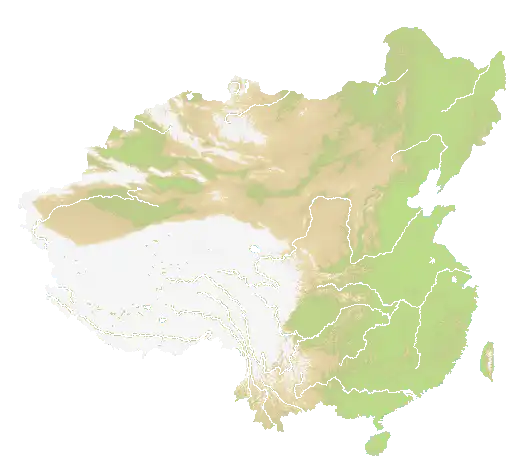
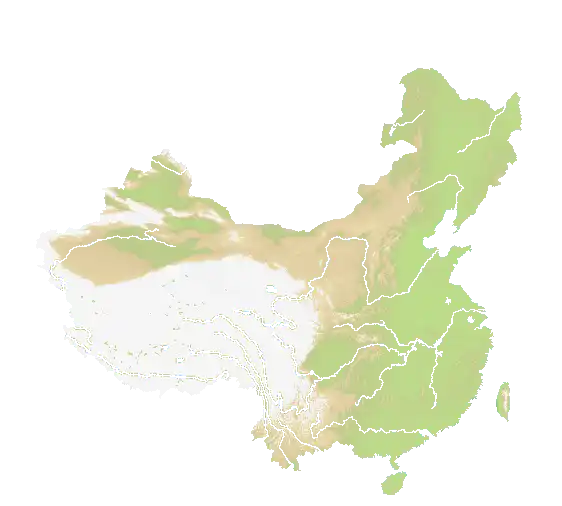
Repair lobby decoder for OpenFront v0.34.0

diff --git a/lobby-wire.js b/lobby-wire.js
@@ -3,8 +3,8 @@
  * Since OpenFrontIO commit d70e4865ca (2026-08-21), lobby frames use the
  * project's positional Zbin format instead of JSON. This is a deliberately
  * small, dependency-free decoder for PublicLobbyMessageSchema only.
- * Schema synchronized with OpenFrontIO release v0.33.13, the version deployed
- * in production on 2026-09-04. Do not follow `main`: Zbin is positional and a
+ * Schema synchronized with OpenFrontIO release v0.34.0 (2026-09-14).
+ * Do not follow `main`: Zbin is positional and a
  * field that has not shipped yet shifts every value that follows it.
  */
 (function (root) {
@@ -191,13 +191,14 @@
     "Baikal Nuke Wars", "Baja California", "Balkans", "Balkhash", "Baltics",
     "Bering Sea", "Bering Strait", "Between Two Seas", "Black Sea",
     "Bosphorus Straits", "Branching Paths", "Britannia", "Britannia Classic",
-    "Caribbean", "Caspian Sea", "Caucasus", "China", "Chopping Block",
+    "Cape Cod", "Caribbean", "Caspian Sea", "Caucasus", "Central America",
+    "Channel Islands", "China", "Chopping Block",
     "Clearwater Lakes", "Conakry", "Crimea", "Danish Straits",
     "Deglaciated Antarctica", "Didier", "Didier France", "Dyslexdria",
     "East Asia", "Europe", "Europe Classic", "Falkland Islands",
     "Faroe Islands", "Finger Lakes", "Four Islands", "France",
     "Gateway to the Atlantic", "Germany", "Giant World Map", "Great Lakes",
-    "Gulf Of Guinea", "Gulf of St. Lawrence", "Halkidiki", "Hawaii",
+    "Gulf Of Guinea", "Gulf Of Mexico", "Gulf of St. Lawrence", "Halkidiki", "Hawaii",
     "Hecate Strait", "Hong Kong", "Iceland", "Indian Subcontinent",
     "Irish Sea", "Italia", "Japan", "Juan De Fuca Strait", "Korea",
     "Labyrinth", "Las Vegas Strip", "Lemnos", "Levant", "Lisbon",
@@ -205,14 +206,14 @@
     "Middle East", "MilkyWay", "Mississippi River", "Montreal",
     "More Than Luck", "New York City", "Nile Delta", "North America",
     "Northwest Passage", "Oceania", "Onion", "Pangaea", "Passage", "Pluto",
-    "Russia", "San Francisco", "Scandinavia", "Sierpinski", "Sol",
+    "Qing China", "Russia", "San Francisco", "Scandinavia", "Sierpinski", "Sol",
     "South America", "SoutheastAsia", "Strait of Gibraltar",
     "Strait of Hormuz", "Strait Of Malacca", "Surrounded", "Svalmel",
     "Taiwan Strait", "The Box", "Tierra Del Fuego", "Titan",
     "Tourney 2 Teams", "Tourney 3 Teams", "Tourney 4 Teams",
     "Tourney 8 Teams", "Traders Dream", "Two Lakes", "United States",
     "Venice", "Vietnam", "Warship Warship", "World", "World Inverted",
-    "Yellow Sea", "Yenisei",
+    "Yangtze River", "Yellow Sea", "Yenisei",
   ];
 
   const GAME_TYPES = ["Singleplayer", "Public", "Private"];
@@ -303,6 +304,7 @@
     bool("randomSpawn"),
     body("maxPlayers", uint, { optional: true }),
     body("allowedPublicIds", array(string), { optional: true }),
+    bool("trusted", { optional: true }),
     body("maxTimerValue", uint, { optional: true, nullable: true }),
     body("customAllianceDuration", uint, { optional: true, nullable: true }),
     body("startDelay", uint, { optional: true, nullable: true }),
@@ -332,6 +334,8 @@
     literal("type", "full"),
     body("serverTime", uint),
     body("games", games),
+    body("gitCommit", string, { optional: true }),
+    bool("active", { optional: true }),
   ]);
 
   const countsMessage = object([

diff --git a/index.html b/index.html
@@ -205,7 +205,7 @@
 <div class="toasts" id="toasts"></div>
 
 <script src="team.config.js?v=20260908-1"></script>
-<script src="lobby-wire.js?v=20260904-2"></script>
+<script src="lobby-wire.js?v=20260914-1"></script>
 <script src="app.js?v=20260908-1"></script>
 </body>
 </html>

diff --git a/assets/maps/SOURCE.md b/assets/maps/SOURCE.md
@@ -11,3 +11,8 @@ as specified by the upstream `LICENSE-ASSETS` file. Attribution: OpenFront.
 The directory layout was flattened from
 `resources/maps/<slug>/thumbnail.webp` to `assets/maps/<slug>.webp`; the image
 contents were not modified.
+
+The Cape Cod, Central America, Channel Islands, Gulf Of Mexico and Qing China
+thumbnails, plus the refreshed China thumbnail, were downloaded from the
+same upstream `resources/maps/<slug>/thumbnail.webp` paths at release
+`v0.34.0` on 2026-09-14, under the same upstream asset license.
